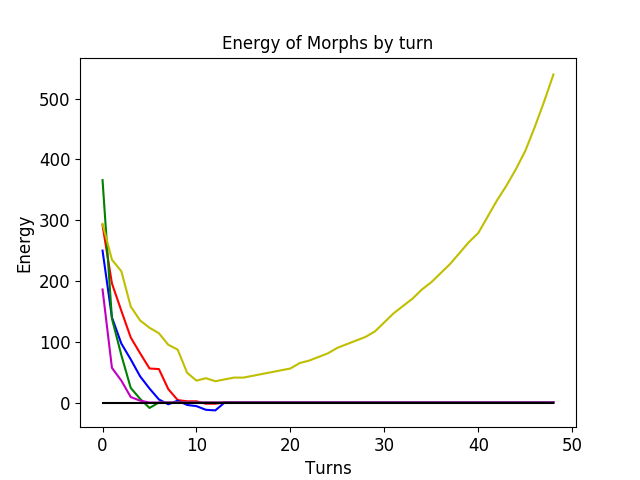
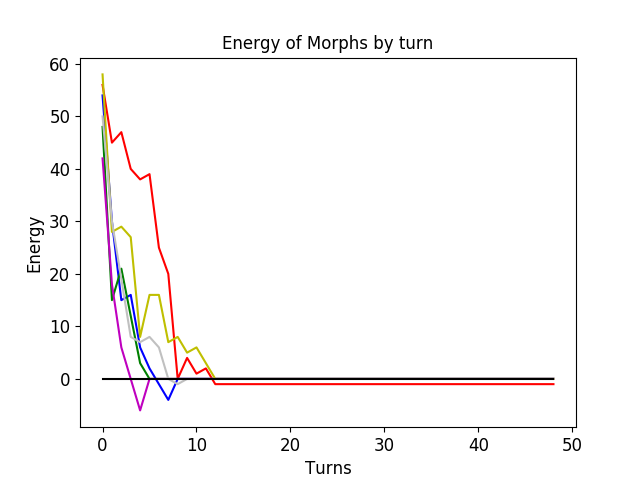
+random distributions +white morphs

diff --git a/environment/game.py b/environment/game.py
@@ -16,36 +16,43 @@ class Game():
     #this is a separate function because it was shitting itself & I'm not a good enough python coder to bother working out what was going wrong
     def initialMorphGen(self, config):
         for x in range(0, config.redPop):
+            config.setMappings()
             newMorph = RedMorph(config.indivEnergy, config.repThresh, self.uniqueId, config.colourMapping['red'], config.formidMapping['red'])
             self.population.append(newMorph)
             self.uniqueId += 1
 
         for x in range(0, config.bluePop):
+            config.setMappings()
             newMorph = BlueMorph(config.indivEnergy, config.repThresh, self.uniqueId, config.colourMapping['blue'], config.formidMapping['blue'])
             self.population.append(newMorph)
             self.uniqueId += 1
 
         for x in range(0, config.greenPop):
+            config.setMappings()
             newMorph = GreenMorph(config.indivEnergy, config.repThresh, self.uniqueId, config.colourMapping['green'], config.formidMapping['green'])
             self.population.append(newMorph)
             self.uniqueId += 1
 
         for x in range(0, config.pinkPop):
+            config.setMappings()
             newMorph = PinkMorph(config.indivEnergy, config.repThresh, self.uniqueId, config.colourMapping['pink'], config.formidMapping['pink'])
             self.population.append(newMorph)
             self.uniqueId += 1
 
         for x in range(0, config.yellowPop):
+            config.setMappings()
             newMorph = YellowMorph(config.indivEnergy, config.repThresh, self.uniqueId, config.colourMapping['yellow'], config.formidMapping['yellow'])
             self.population.append(newMorph)
             self.uniqueId += 1
 
         for x in range(0, config.whitePop):
+            config.setMappings()
             newMorph = WhiteMorph(config.indivEnergy, config.repThresh, self.uniqueId, config.colourMapping['white'], config.formidMapping['white'])
             self.population.append(newMorph)
             self.uniqueId += 1
 
         for x in range(0, config.blackPop):
+            config.setMappings()
             newMorph = BlackMorph(config.indivEnergy, config.repThresh, self.uniqueId, config.colourMapping['black'], config.formidMapping['black'])
             self.population.append(newMorph)
             self.uniqueId += 1
@@ -75,6 +82,9 @@ class Game():
             choice = self.population[x].makeChoice(self.population[x+1], config)
             if(choice == 0): self.population[x].addEnergy(config.selfishReward)
             elif(choice == 1): self.population[x+1].addEnergy(config.selflessReward)
+
+            if(isinstance(self.population[x+1], GreenMorph) | isinstance(self.population[x+1], WhiteMorph)): 
+                self.population[x+1].rememberAction(self.population[x].getUniqueId(), choice)
 
             #print("Choice: ", choice, " | Actor: ", self.population[x].getColour(), " | Actee: ", self.population[x+1].getColour())
 

diff --git a/config.py b/config.py
@@ -1,10 +1,8 @@
+import random
+
 class Config():
     def __init__(self, fileList):
-        self.colourMapping = {'red': 0, 'blue': 1, 'green': 2, 'pink': 3, 'yellow': 4, 'white': 5, 'black': 6}
-        self.indexMapping = {0: 'red', 1: 'blue', 2: 'green', 3: 'pink', 4: 'yellow', 5: 'white', 6: 'black'}
-        self.formidMapping = {'red': 0, 'blue': 1, 'green': 2, 'pink': 3, 'yellow': 4, 'white': 5, 'black': 6}
         
-        #TODO:- rework to use split so it's less cancer
         self.totalPopulation = int(fileList[2].rstrip(), 10)
 
         self.totalTurns = int(fileList[4].rstrip(), 10)
@@ -35,11 +33,26 @@ class Config():
 
         self.selflessReward = float(fileList[42].rstrip())
 
+        self.randomDistrib = int(fileList[44].rstrip())
+
+    def setMappings(self):
+        if(self.randomDistrib == 0):
+            #NORMAL
+            self.colourMapping = {'red': 0, 'blue': 1, 'green': 2, 'pink': 3, 'yellow': 4, 'white': 5, 'black': 6}
+            self.indexMapping = {0: 'red', 1: 'blue', 2: 'green', 3: 'pink', 4: 'yellow', 5: 'white', 6: 'black'}
+            self.formidMapping = {'red': 0, 'blue': 1, 'green': 2, 'pink': 3, 'yellow': 4, 'white': 5, 'black': 6}
+        else:
+            #RANDOMISED
+            randList = [0, 1, 2, 3, 4, 5, 6]
+            random.shuffle(randList)
+            self.colourMapping = {'red': randList[0], 'blue': randList[1], 'green': randList[2], 'pink': randList[3], 'yellow': randList[4], 'white': randList[5], 'black': randList[6]}
+            self.indexMapping = {randList[0]: 'red', randList[1]: 'blue', randList[2]: 'green', randList[3]: 'pink', randList[4]: 'yellow', randList[5]: 'white', randList[6]: 'black'}
+            self.formidMapping = {'red': 0, 'blue': 1, 'green': 2, 'pink': 3, 'yellow': 4, 'white': 5, 'black': 6}
+
 
 class MetaConfig():
     def __init__(self, fileList):
 
-        #TODO:- strip whitespace & convert all these strings to numericals
         self.totalGames = int(fileList[26].rstrip(), 10)
 
         self.popIncrement = int(fileList[28].rstrip(), 10)

diff --git a/graphing/xybasic.py b/graphing/xybasic.py
@@ -59,7 +59,7 @@ class BasicGraph():
         plt.plot(xVals, yValsEnergyGreen, color = 'g')
         plt.plot(xVals, yValsEnergyPink, color = 'm')
         plt.plot(xVals, yValsEnergyYellow, color = 'y')
-        plt.plot(xVals, yValsEnergyWhite, color = 'w')
+        plt.plot(xVals, yValsEnergyWhite, color = 'silver')
         plt.plot(xVals, yValsEnergyBlack, color = 'k')
 
         plt.title("Energy of Morphs by turn", fontsize=12)
@@ -75,7 +75,7 @@ class BasicGraph():
         plt.plot(xVals, yValsPopGreen, color = 'g')
         plt.plot(xVals, yValsPopPink, color = 'm')
         plt.plot(xVals, yValsPopYellow, color = 'y')
-        plt.plot(xVals, yValsPopWhite, color = 'w')
+        plt.plot(xVals, yValsPopWhite, color = 'silver')
         plt.plot(xVals, yValsPopBlack, color = 'k')
 
         plt.title("Population of Morphs by turn", fontsize=12)

diff --git a/morphs/white.py b/morphs/white.py
@@ -1,5 +1,20 @@
 from .morph import Morph
 
 class WhiteMorph(Morph):
+    def __init__(self, energy, repThresh, uniqueId, colourId, formidabilityIndex):
+        self.energy = energy
+        self.repThresh = repThresh
+        self.uniqueId = uniqueId
+        self.colourId = colourId
+        self.formidabilityIndex = formidabilityIndex
+        self.actionMemory = 0
+
     def makeChoice(self, target, config):
-        return 0
+        if(self.actionMemory == 0): return 0 
+        else: return 1
+
+    def rememberAction(self, target, action):
+        #taking target is redundant but it makes the code neater in game
+        #optimise area in future if needed
+        actionMemory = action
+        return

diff --git a/main.py b/main.py
@@ -25,6 +25,7 @@ def main():
     try:
         #config is all information a single game requires
         config = Config(fileList)
+        config.setMappings()
 
         #metaConfig is the information required to run several games in a row
         metaconfig = MetaConfig(fileList)

diff --git a/morphs/green.py b/morphs/green.py
@@ -17,5 +17,5 @@ class GreenMorph(Morph):
             else: return random.randint(0,1)
 
     def rememberAction(self, target, action):
-        actionMemory[target.getUniqueId()] = action
+        self.actionMemory[target] = action
         return

diff --git a/Readme.md b/Readme.md
@@ -7,8 +7,11 @@ Planned features:
 -save plots
 -formidability
 -black
--white
+-white as variant on green
 -rework config.txt to work on .split()
+-stats of average gain per morph
+-tool to analyse actual gain per morph + choices
+-Random population distribution - colours not being intrinsically liniked
 
 
 Adding new morphs
